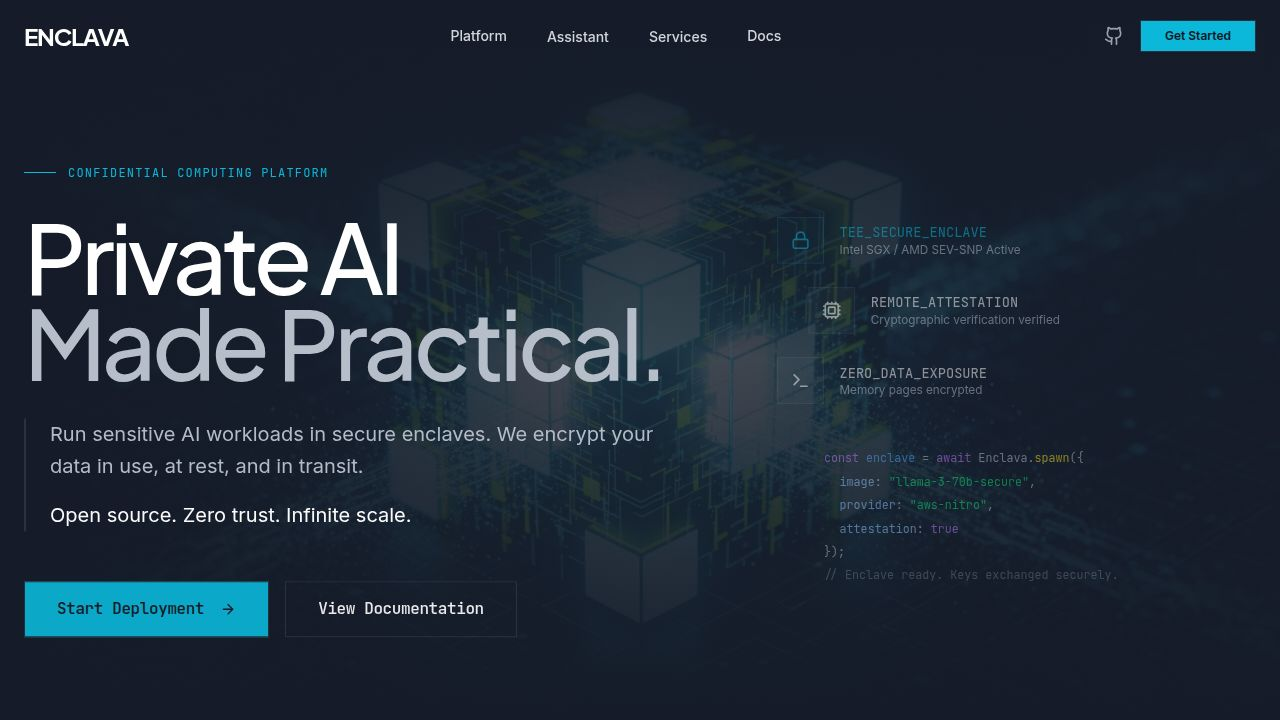
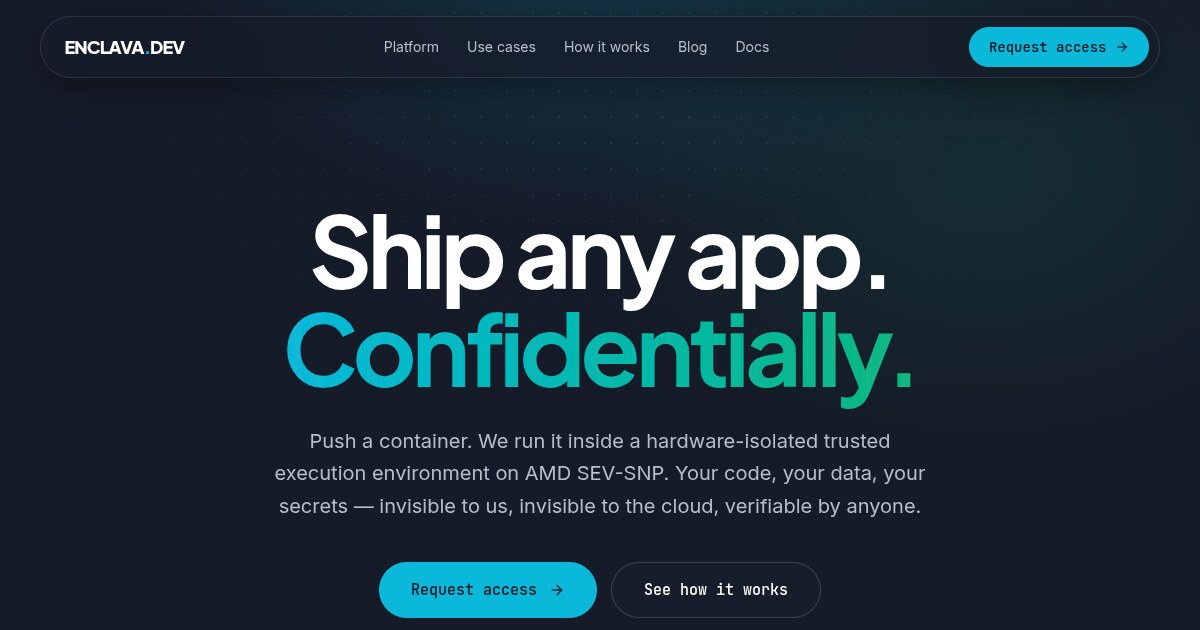
social preview update

diff --git a/client/index.html b/client/index.html
@@ -9,12 +9,12 @@
     <meta property="og:description" content="Deploy your applications confidentially with Trusted Execution Environments. The open source platform for confidential computing." />
     <meta property="og:type" content="website" />
     <meta property="og:url" content="https://enclava.dev/" />
-    <meta property="og:image" content="/opengraph.jpg" />
+    <meta property="og:image" content="https://enclava.dev/opengraph.jpg?v=2" />
     <meta name="twitter:card" content="summary_large_image" />
     <meta name="twitter:site" content="@EnclavaLabs" />
     <meta name="twitter:title" content="Enclava.dev - Confidential Applications Platform" />
     <meta name="twitter:description" content="Deploy your applications confidentially with Trusted Execution Environments. The open source platform for confidential computing." />
-    <meta name="twitter:image" content="/opengraph.jpg" />
+    <meta name="twitter:image" content="https://enclava.dev/opengraph.jpg?v=2" />
 
     <link rel="stylesheet" href="/fonts.css">
     <script defer data-domain="enclava.dev" src="https://analytics.cypherpunk.cloud/js/script.file-downloads.hash.outbound-links.pageview-props.tagged-events.js"></script>
